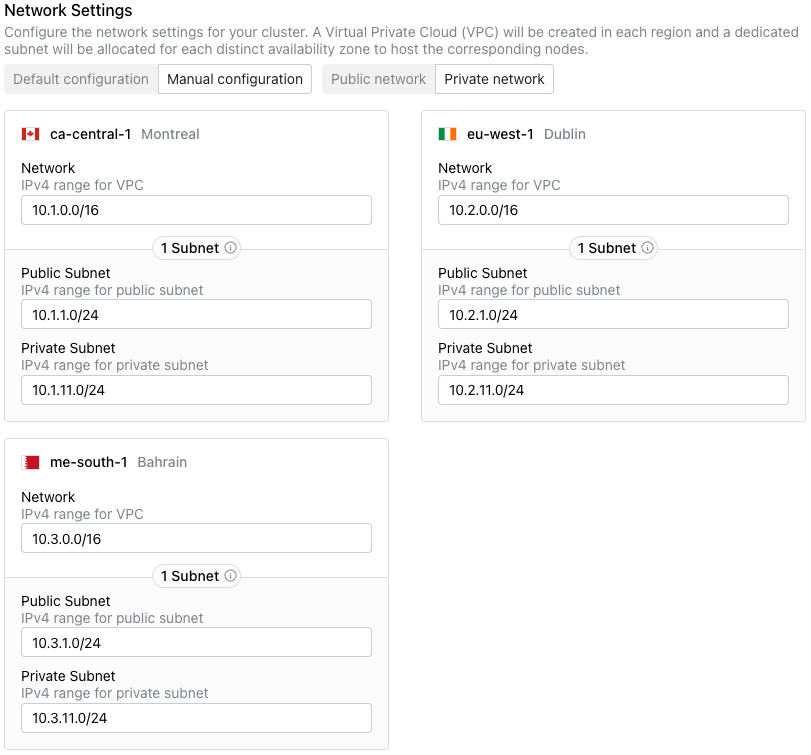
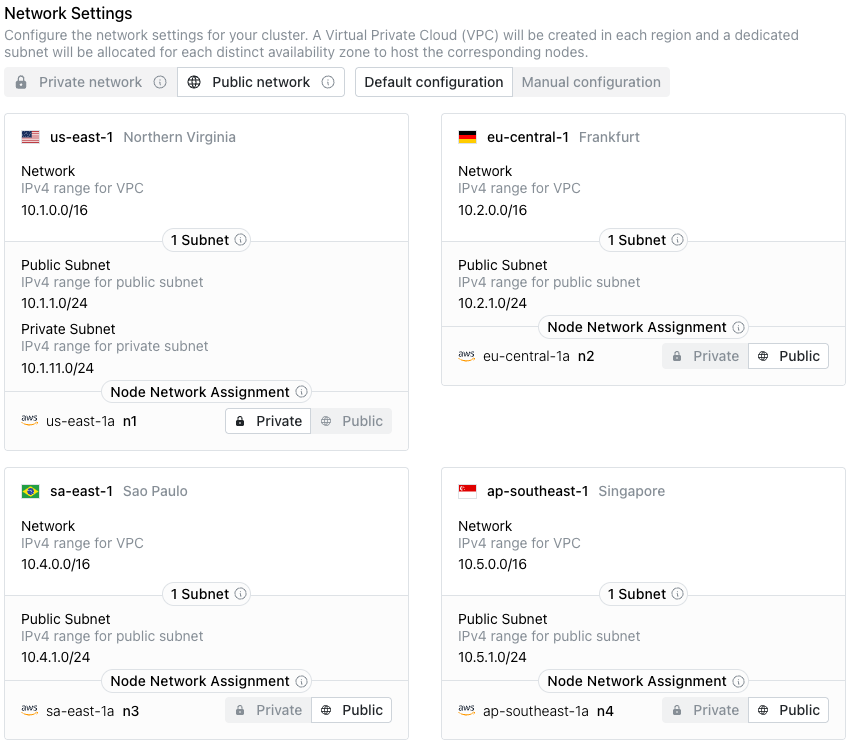
Updates to cloud

diff --git a/docs/cloud/cluster/create_cluster.md b/docs/cloud/cluster/create_cluster.md
@@ -6,68 +6,79 @@
     you must have a
     [linked Cloud provider account](../prerequisites/cloud_accounts/index.md).
 
-To create a cluster, navigate to the `Clusters` page, and select the `+ New Cluster` button. 
-
-When the `Create New Cluster` page opens, provide a unique name for your cluster in the `Cluster Name` field.
+To create a cluster, navigate to the `Clusters` page and select the
+`+ New Cluster` button. When the `Create New Cluster` page opens,
+provide a unique name for the cluster in the `Cluster Name` field.
 
 ![Provide a cluster name](../images/unique_cluster_name.png)
 
 Use the drop-down listbox in the `Cloud Account` field to select the
 [cloud provider account](../prerequisites/cloud_accounts/index.md)
-that will be used to provision your cluster.
+used to provision the cluster.
 
 ![Select a cloud account](../images/cloud_account.png)
 
-Next, select up to 5 availability zones in any regions to which you have access from your cloud provider. To use the map for location selection, use the `Show map` toggle to enable the map.
+Select up to 5 availability zones in any regions accessible from the
+cloud provider account. Use the `Show map` toggle to enable the map
+for location selection.
 
 ![Select the regions for deployment](../images/cluster_regions.png)
 
-If using the drop-down fields to define the cluster deployment, first select the region in which you wish to deploy nodes.  Once selected, the region name is displayed in the list of selected `Regions`.
+To define the cluster deployment using the drop-down fields, first select
+the region for node deployment. The region name is displayed in the list
+of selected `Regions` after selection.
 
-Then, use the `+/-` control or the drop-down list to the right of the `Region` name to select from the supported Availability Zones for node deployment. One node will be deployed in each zone listed; you can use the `X` in the zone icon to remove a zone from the deployment list.
+Use the `+/-` control or the drop-down list to the right of the `Region`
+name to select from the supported Availability Zones for node deployment.
+One node is deployed in each listed zone; use the `X` in the zone icon
+to remove a zone from the deployment list.
 
 ![Configure Network Settings](../images/configure_network.png)
 
-Each region in which your cluster is deployed is represented by a pane in the
-`Network Settings` section; within each region, subnet details for each
-availability zone are displayed. Toggles at the top of the `Network Settings` 
-section control the display of network details:
+Each region in which the cluster is deployed is represented by a pane in
+the `Network Settings` section; within each region, subnet details for
+each availability zone are displayed. Toggles at the top of the
+`Network Settings` section control the network assignments for the
+cluster:
 
-* Use the `Configuration` toggle to accept the `Default configuration` for
-  address assignments, or move the toggle to `Manual configuration` to
-  specify custom address assignments.
+- Use the `Configuration` toggle to accept the `Default configuration`
+  for address assignments, or move the toggle to `Manual configuration`
+  to specify custom address assignments.
 
-* Use the `Network Type` toggle to specify if the connection values
-  displayed or edited should be `Public` or `Private` addresses: 
+- Use the `Network Type` toggle to specify whether the connection values
+  for the cluster use `Public` or `Private` addresses:
 
-  * `Public` network clusters will have IP addresses assigned to the nodes
-    that can be accessed from the public internet.
-  * `Private` network clusters are not accessible from the public internet.
-    Note that private network clusters are not available for Google Cloud
-    Platform users.
+  - `Public` network clusters have IP addresses assigned to each node
+    that are accessible from the public internet.
+  - `Private` network clusters are not accessible from the public
+    internet.
 
-Next, specify the vendor-specific deployment details for your cluster.
+Within each pane, the `Node Network Assignment` label lists the
+provider-assigned region, the node name (`n` followed by a number),
+and a toggle that specifies the network assignment for that node.
+
+Specify the vendor-specific deployment details for the cluster.
 
 ![Configure Cloud Environment](../images/configure_deployment.png)
 
-* Use the `Instance Type` drop-down to select the size and configuration of
-  your cluster instance type. Each node in the cluster will reside on the
-  instance type selected. The instance type is one factor in determining the
-  operating cost of your cluster. 
+- Use the `Instance Type` drop-down to select the size and configuration
+  of the cluster instance type. Each node in the cluster resides on the
+  selected instance type; the instance type is one factor in determining
+  the operating cost of the cluster.
 
-* Use the `Volume Size (GB)` field to specify the size of the data volume
-  for each node of your cluster. Volume size must be between 8 GB and 10 TB.
+- Use the `Volume Size (GB)` field to specify the size of the data volume
+  for each node of the cluster. Volume size must be between 8 GB and
+  10 TB.
 
-* Use the `SSH Key` drop-down to select a key pair from the list of your
-  [imported key pairs](../prerequisites/ssh_key.md).
-  A key pair is required to SSH to a cluster; without a key, you can connect
-  to databases you provision on the cluster, but will not be able to connect
-  with the host via SSH.
+- Use the `SSH Key` drop-down to select a key pair from the list of
+  [imported key pairs](../prerequisites/ssh_key.md). A key pair is
+  required to SSH to a cluster; without a key, connections to databases
+  provisioned on the cluster are available, but SSH connections to the
+  host are not.
 
 Optionally, select the
-[backup stores](https://docs.pgedge.com/cloud/backup/backup_store)
-that will be available to use for database backups and log file backups for
-the new cluster.
+[`Backup Stores`](https://docs.pgedge.com/cloud/backup/backup_store)
+available for database backups and log file backups for the new cluster.
 
 ![Configure your Backup Storage](../images/backup_storage_configuration.png)
 
@@ -75,95 +86,95 @@ As you define backup stores, remember that selecting backup stores near your
 cluster nodes will reduce network latency during the backup process. Use the
 drop-down field or select locations on the map to include a specific store.
 
-A [resource tag](resource_tag.md) is a user-defined key/value information
-pair that you attach to your cluster definition.  The tag is displayed under
-the cluster name on the `Clusters` page.  You can use tags to categorize your
-cloud resources or search for resources that are used for specific teams or
-applications.  For example, you may want to include a tag that specifies
-`team/ db-ops` to make it easy to identify the resources that are used by the
-`db-ops` team.
+A [`Resource Tag`](resource_tag.md) is a user-defined key/value pair
+attached to a cluster definition. The tag is displayed under the cluster
+name on the `Clusters` page. Use tags to categorize cloud resources or
+search for resources used by specific teams or applications. For example,
+a tag that specifies `team/db-ops` makes it easy to identify resources
+used by the `db-ops` team.
 
-To add a resource tag, select `Add Resource Tag`, and then specify the `Key`
-and `Value`; the terms will be displayed with a `/` used as a delimiter. 
+To add a resource tag, select `Add Resource Tag` and specify the `Key`
+and `Value`; the terms are displayed with a `/` delimiter.
 
 ![Adding a resource tag](../images/resource_tag_add.png)
 
 
-You can define a [VPC association](vpc_assoc.md) to configure VPC peering
-and (if needed) private zone routing between any defined VPCs and the pgEdge
-cluster network. Peering allows an application to connect seamlessly to any
-of the nodes across regions, allowing you to fully leverage latency routing
-and dns failover. This is currently only available for AWS.
+Define a [VPC association](vpc_assoc.md) to configure VPC peering and,
+if needed, private zone routing between any defined VPCs and the pgEdge
+cluster network. Peering allows an application to connect seamlessly to
+any node across regions, enabling latency routing and DNS failover. VPC
+associations are currently only available for AWS.
 
-Use the `VPC Associations` fields to add any defined VPCs that should have
-access to your cluster.
+Use the `VPC Associations` fields to add any defined VPCs that require
+access to the cluster.
 
 ![Define a VPC Association](../images/vpc_association.png)
 
-Use the [`Firewall Rules`](firewall.md) field to open ports on each node of
-your cluster for connections. Click the `+ Add Firewall Rule` icon to add a
-rule.
+Use the [`Firewall Rules`](firewall.md) field to open ports on each node
+of the cluster for connections. Select the `+ Add Firewall Rule` icon to
+add a rule.
 
 ![Firewall rules](../images/firewall_rules.png)
 
-* Use the `Type` drop-down to select the connection type you are defining:
+- Use the `Type` drop-down to select the connection type for the rule:
 
-    * Select `PostgreSQL` to create a connection to port `5432`; this is
-      the default port used by connecting clients that wish to query the
-      database.
-    * Select `HTTPS` to open port `443` for secure communication between
+    - Select `PostgreSQL` to create a connection to port `5432`; this is
+      the default port used by clients that query the database.
+    - Select `HTTPS` to open port `443` for secure communication between
       PostgreSQL and a web server.
-    * Select `SSH` to open port `22` for SSH connections.
+    - Select `SSH` to open port `22` for SSH connections.
 
-* Use the `Source Type` selector in the right column to specify the type of
-  connection source that is allowed to connect with this rule. You can choose
-  from the following options:
+- Use the `Source Type` selector in the right column to specify the type
+  of connection source allowed to connect with this rule. The following
+  options are available:
 
-    * An IP address, specifying a single host or CIDR block.
-    * A prefix list, specifying a managed set of CIDR blocks.
-    * A security group, specifying a set of AWS instances.
+    - An IP address, specifying a single host or CIDR block.
+    - A prefix list, specifying a managed set of CIDR blocks.
+    - A security group, specifying a set of AWS instances.
 
-* Use the `Sources` field in the left column to specify details about the
-  connection source that will be allowed access to your cluster with the rule.
+- Use the `Sources` field in the left column to specify the connection
+  source allowed access to the cluster with the rule:
 
-    * To remove a source, click the `X` in the rule's `Sources` field. 
-    * To add a source, click in the `Sources` field and select from the
-    predefined options, or type directly in the field.
+    - To remove a source, select the `X` in the rule's `Sources` field.
+    - To add a source, select the `Sources` field and choose from the
+      predefined options, or type directly in the field.
 
-* Use the `Applies To` selector to choose the node or nodes to which the
-  rule applies.
+- Use the `Applies To` selector to choose the node or nodes to which
+  the rule applies.
 
-After providing rule details, choose the `+ Add Firewall Rule`
-button to add another rule to the list of firewall rules. To remove a rule from the list, select the `X` in the upper-right corner of the rule box.
+After providing rule details, select the `+ Add Firewall Rule` button
+to add another rule to the list. To remove a rule from the list, select
+the `X` in the upper-right corner of the rule box.
 
 ![Defined firewall rules](../images/defined_firewall_rules.png)
 
 !!! note
 
-    If you do not open ports for connection, client software will be unable to connect to the OS or databases that reside on the cluster.
+    Client software cannot connect to the OS or databases on the cluster
+    if ports are not opened for connection.
 
-In the `Options` section you'll find the option to create the cluster as a
+The `Options` section provides the option to create the cluster as a
 `single-database cluster`.
 
 ![Select Additional Options](../images/select_additional_options.png)
 
-Single database clusters are beneficial because:
+Single database clusters provide the following benefits:
 
-* they allow connections to the database with an IP address (rather than by
-  domain name).
-* they allow connections to the database via DNS names and records that you
-  create outside of the pgEdge console.
-* a single-purpose, dedicated cluster guarantees that all cluster resources
-  are available for the single database.
+- A single-database cluster allows connections to the database with an IP
+  address rather than a domain name.
+- A single-database cluster allows connections via DNS names and records
+  created outside of the pgEdge console.
+- A single-purpose, dedicated cluster guarantees that all cluster
+  resources are available for the single database.
 
-When you've completed the dialog, select the `Deploy Cluster` button to
+After completing the dialog, select the `Deploy Cluster` button to
 deploy a provisioned cluster.
 
 ![The cluster is spinning up](../images/cluster_spinning_up.png)
 
-A progress bar tracks the progress as the deployment goes through each step;
-when the cluster is ready to use, it is added to the list of clusters in the
-navigation tree.
+A progress bar tracks the deployment through each step; when the cluster
+is ready to use, it is added to the list of clusters in the navigation
+tree.
 
-If you encounter any errors during cluster creation, please see the
+If errors occur during cluster creation, see the
 [Troubleshooting section](../troubleshooting.md).

diff --git a/docs/cloud/cluster/manage_cluster.md b/docs/cloud/cluster/manage_cluster.md
@@ -16,16 +16,16 @@ information about the selected cluster:
   whether the cluster nodes are in a public subnet.
 - The `Cluster ID` associated with the cluster.
 - The name of the cloud provider account on which the cluster resides;
-  click the account name to navigate to the details page for the account.
+  select the account name to navigate to the details page for the account.
 - User-defined [resource tags](resource_tag.md) associated with the cluster.
 
 The cluster header also displays a set of informational panes that show
 the state of the cluster at a glance:
 
-- the total node count.
-- the number of healthy nodes.
-- the number of unhealthy nodes.
-- the number of unresponsive nodes.
+- The total node count.
+- The number of healthy nodes.
+- The number of unhealthy nodes.
+- The number of unresponsive nodes.
 
 
 ## The Cluster Information Tabs
@@ -33,17 +33,17 @@ the state of the cluster at a glance:
 ![Cluster Overview](../images/cluster_overview.png)
 
 The tabbed browser on the `Cluster` tab provides quick access to
-information about the state of your cluster:
+information about the state of the cluster:
 
 - Select the [`Overview`](#the-overview-tab) tab to view information
   about the cluster and the databases currently deployed on the cluster.
-  Detailed information about the cluster nodes displays below. Click an
+  Detailed information about the cluster nodes displays below. Select an
   icon in the `Database` pane to navigate to detailed information about
   the selected database.
-- Select the [`Metrics`](#reviewing-cluster-metrics) tab to view
-  details about cluster resource use.
-- Select the [`Logs`](#reviewing-cluster-log-files) tab to review
-  cluster log files.
+- Select the [`Metrics`](#reviewing-cluster-metrics) tab to view details
+  about cluster resource use.
+- Select the [`Logs`](#reviewing-cluster-log-files) tab to review cluster
+  log files.
 
 ### The Overview Tab
 
@@ -82,8 +82,8 @@ The `Overview` tab also displays the currently defined
 
 ![The cluster's firewall rules](../images/overview_firewall_rule.png)
 
-Select the `Manage Firewall Rules` button to open a dialog that allows
-you to [modify or create rules](firewall.md) for the cluster.
+Select the `Manage Firewall Rules` button to open a dialog to
+[modify or create rules](firewall.md) for the cluster.
 
 The `Overview` tab also displays the current [VPC Associations](vpc_assoc.md):
 
@@ -109,14 +109,13 @@ the cluster.
 
 Select from the tabs across the top to review graphs containing:
 
-- metrics for all nodes in your cluster.
-- metrics for a specific node in your cluster.
+- Metrics for all nodes in the cluster.
+- Metrics for a specific node in the cluster.
 
-The drop-down at the top of the `Metrics` pane allows you to specify
-the length of time displayed by each graph.
+The drop-down at the top of the `Metrics` pane specifies the length of
+time displayed by each graph.
 
-Select a point on a graph to display information about the graphed
-event that occurred on your cluster:
+Select a point on a graph to display information about the graphed event:
 
 ![A point-in-time in the cluster metrics graph](../images/cluster_metrics_PIT.png)
 
@@ -138,15 +137,14 @@ Select the `Logs` tab to review log files for the cluster.
 
 ![The cluster log files](../images/cluster_log_details.png)
 
-Use the tabs across the top to select the nodes for which you want to
-review log files. Then select one of the following log types:
+Use the tabs across the top to select the nodes for which to review log
+files, then select one of the following log types:
 
-- `System logs` to review the system commands performed to manage your
+- `System logs` reviews the system commands performed to manage the
   cluster.
-- `Docker logs` to review the Docker-specific commands executed to
-  manage the container in which your cluster is running.
-- `SSH logs` to review details about SSH connections made to your
-  cluster.
+- `Docker logs` reviews the Docker-specific commands executed to manage
+  the container in which the cluster is running.
+- `SSH logs` reviews details about SSH connections made to the cluster.
 
 Use the `Auto refresh`/`Manual refresh` drop-down to specify whether
 log entries update automatically (`Auto refresh`) or pause updating
@@ -157,22 +155,23 @@ Use the controls in the table header to sort or search the selected log file:
 
 - Select a column heading to sort alphabetically by the column value;
   select a second time to reverse the sort order.
-- Click the filter icon to the right of the `Level` heading to select a
-  status from the drop-down; all rows assigned the selected status will
-  be filtered to the top of the result set.
+- Select the filter icon to the right of the `Level` heading to choose
+  a status from the drop-down; all rows assigned the selected status
+  are filtered to the top of the result set.
 
 ![Filtering the cluster log](../images/cluster_log_filter.png)
 
 - Use the search box to the right of the `Message` label to enter a
-  search string; the search term will be highlighted in the log file
-  entries. Use the navigation arrows to move to the next or previous
-  occurrence of the search term.
+  search string; the search term is highlighted in the log file entries.
+  Use the navigation arrows to move to the next or previous occurrence
+  of the search term.
 
 ![Searching the cluster log](../images/cluster_log_message.png)
 
 ## Cluster Administration Links
 
-Use the links at the end of the navigation pane to access pgEdge Cloud resources:
+Use the links at the end of the navigation pane to access pgEdge Cloud
+resources:
 
 - To manage account details, select the [`Settings`](../settings.md) link.
 - Select the [`Team Management`](../teams.md) link to manage account membership.
